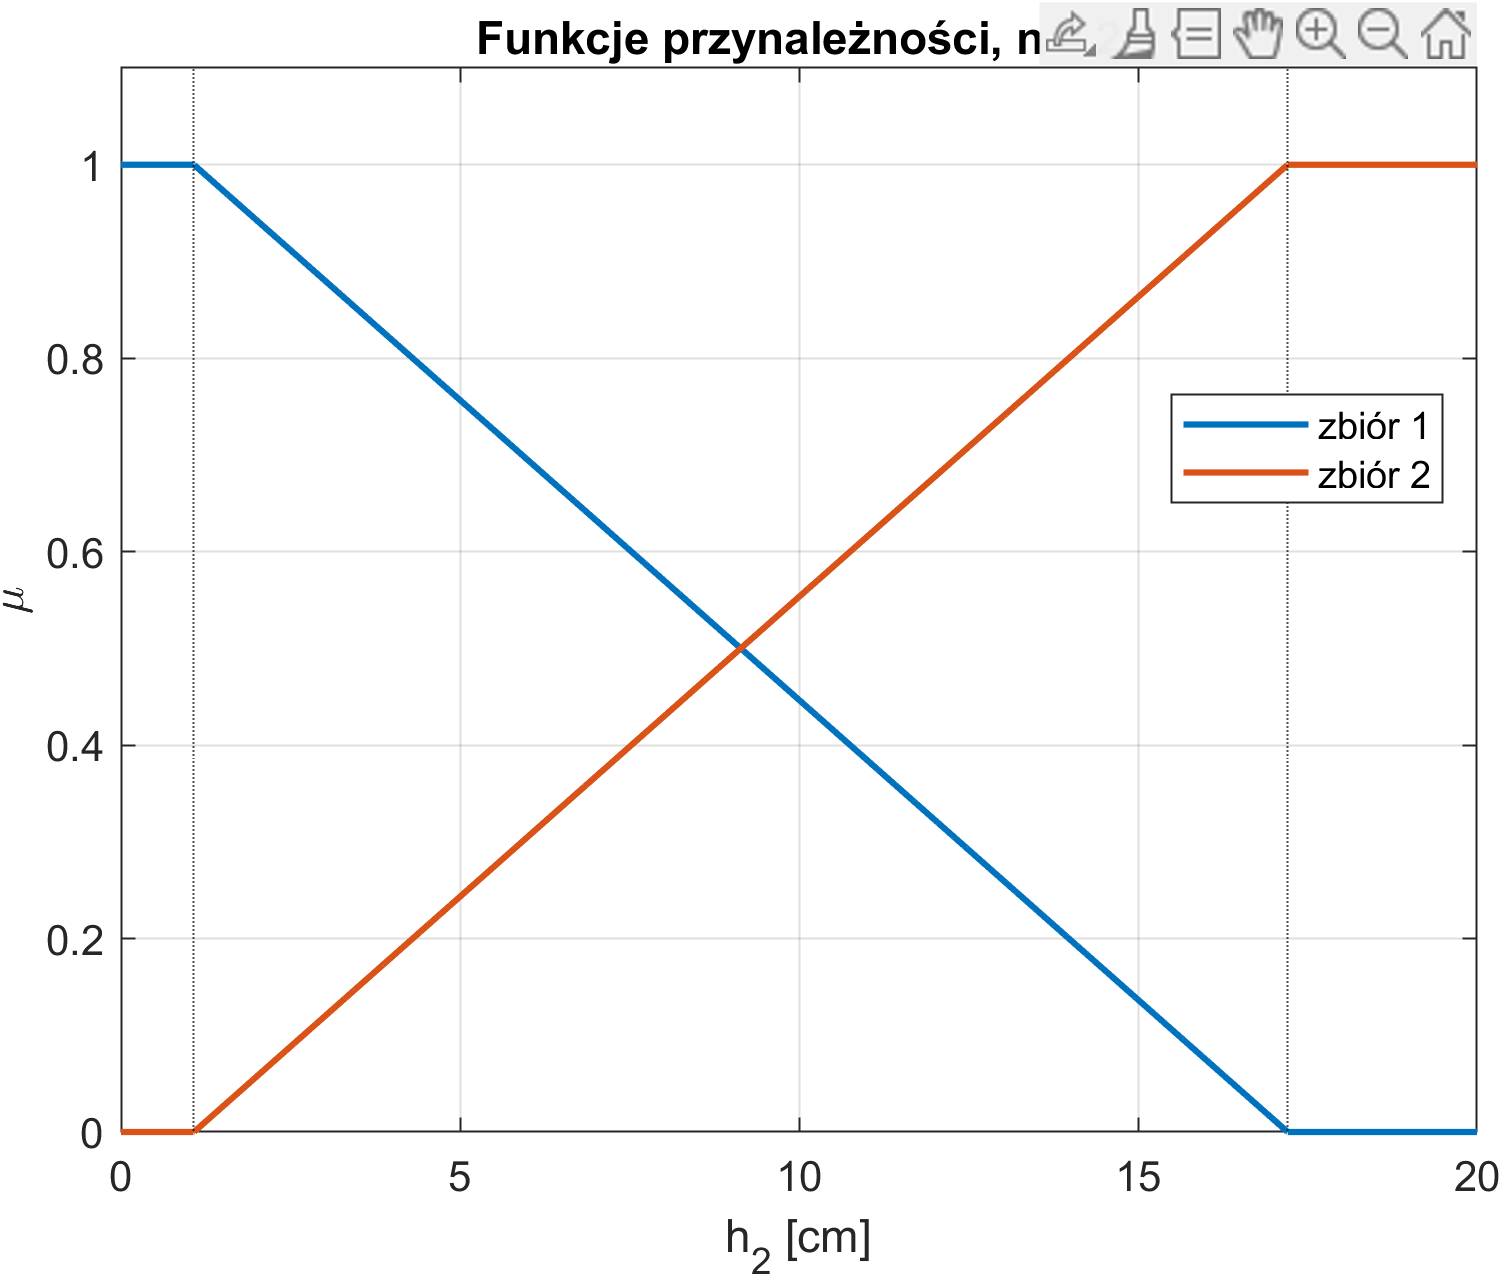
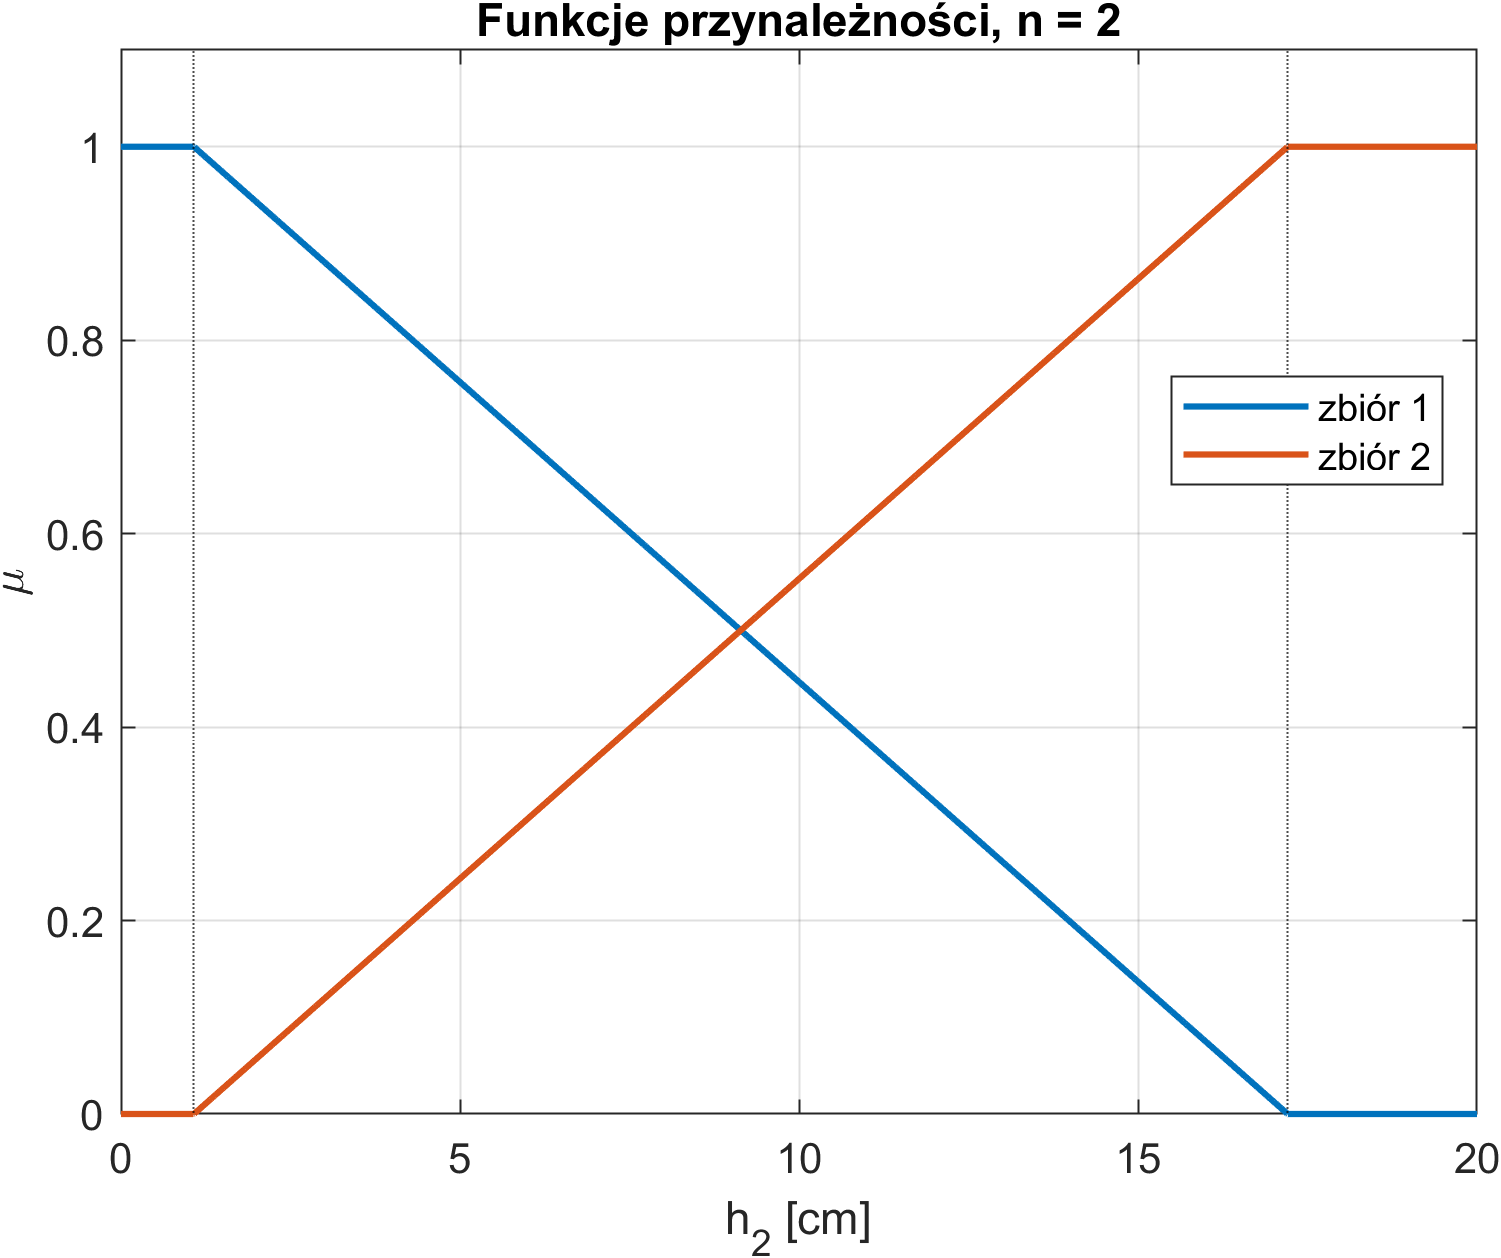
dodano porownanie modeli

diff --git a/porownanie_modeli.m b/porownanie_modeli.m
@@ -1,0 +1,133 @@
+clear; clc; close all;
+%% Stałe
+C1 = 0.6;
+C2 = 0.9;
+alpha1 = 28;
+alpha2 = 27;
+FD0 = 10;    % cm^3/s, wartość zakłócenia w punkcie pracy
+tau = 50;    % s, opóźnienie wejścia F1_in
+%% Plan skoków sterowania F1_in
+t_skok  = [0   50  150  250  350 550 700];
+F1_wart = [60  70   10   60  90   60   30];
+%% Plan skoków zakłócenia FD
+tFD_skok = [850 900 950];    % s, moment skoku zakłócenia
+FD_wart  = [20 30 5];        % cm^3/s, wartość po skoku
+%% Punkt pracy
+F1_0 = 60;
+F2_0 = F1_0 + FD0;
+h1_0 = (F2_0/alpha1)^2;
+h2_0 = (F2_0/alpha2)^2;
+V1_0 = C1*h1_0^3;
+V2_0 = C2*h2_0^2;
+x0   = [V1_0; V2_0];
+%% Model rozmyty                                                  
+n_lok = 2;                                  % liczba modeli lokalnych, od 2 do 5
+F1_fuzzy_min = F1_0 * 0.3;
+F1_fuzzy_max = F1_0 * 1.7;
+h2_fuzzy_min = ((F1_fuzzy_min + FD0)/alpha2)^2;
+h2_fuzzy_max = ((F1_fuzzy_max + FD0)/alpha2)^2;
+h2_srodki = linspace(h2_fuzzy_min, h2_fuzzy_max, n_lok);
+F_lok  = alpha2 * sqrt(h2_srodki);
+F1_lok = F_lok - FD0;
+%% Symulacja
+dt = 0.01;
+t  = 0:dt:1000;
+N  = numel(t);
+x_nl  = zeros(2,N);              % model nieliniowy, x = [V1; V2]
+x_lin = zeros(2,N);              % model liniowy
+x_roz = zeros(2,N);              % model rozmyty                  
+x_nl(:,1)  = x0;
+x_lin(:,1) = x0;
+x_roz(:,1) = x0;                                                  
+%% Sygnał sterujący F1_in i opóźnione wejście F1
+F1_in = F1_0*ones(1,N);
+for i = 1:length(t_skok)
+    F1_in(t >= t_skok(i)) = F1_wart(i);
+end
+% Opóźnienie wejścia o tau
+F1 = F1_0*ones(1,N);
+for i = 1:length(t_skok)
+    F1(t >= t_skok(i) + tau) = F1_wart(i);
+end
+%% Zakłócenie FD (bez opóźnienia)
+FD = FD0*ones(1,N);
+for i = 1:length(tFD_skok)
+    FD(t >= tFD_skok(i)) = FD_wart(i);
+end
+%% RK4
+for n = 1:N-1
+    % model nieliniowy
+    k1 = model_procesu(x_nl(:,n),          F1(n), FD(n), C1, C2, alpha1, alpha2);
+    k2 = model_procesu(x_nl(:,n)+dt*k1/2,  F1(n), FD(n), C1, C2, alpha1, alpha2);
+    k3 = model_procesu(x_nl(:,n)+dt*k2/2,  F1(n), FD(n), C1, C2, alpha1, alpha2);
+    k4 = model_procesu(x_nl(:,n)+dt*k3,    F1(n), FD(n), C1, C2, alpha1, alpha2);
+    x_nl(:,n+1) = x_nl(:,n) + dt/6*(k1 + 2*k2 + 2*k3 + k4);
+    % model liniowy
+    k1 = model_liniowy(x_lin(:,n),          F1(n), FD(n), F1_0, FD0, C1, C2, alpha1, alpha2);
+    k2 = model_liniowy(x_lin(:,n)+dt*k1/2,  F1(n), FD(n), F1_0, FD0, C1, C2, alpha1, alpha2);
+    k3 = model_liniowy(x_lin(:,n)+dt*k2/2,  F1(n), FD(n), F1_0, FD0, C1, C2, alpha1, alpha2);
+    k4 = model_liniowy(x_lin(:,n)+dt*k3,    F1(n), FD(n), F1_0, FD0, C1, C2, alpha1, alpha2);
+    x_lin(:,n+1) = x_lin(:,n) + dt/6*(k1 + 2*k2 + 2*k3 + k4);
+    % model rozmyty                                              
+    k1 = model_rozmyty(x_roz(:,n),          F1(n), FD(n), FD0, C1, C2, alpha1, alpha2, F1_lok, h2_srodki);
+    k2 = model_rozmyty(x_roz(:,n)+dt*k1/2,  F1(n), FD(n), FD0, C1, C2, alpha1, alpha2, F1_lok, h2_srodki);
+    k3 = model_rozmyty(x_roz(:,n)+dt*k2/2,  F1(n), FD(n), FD0, C1, C2, alpha1, alpha2, F1_lok, h2_srodki);
+    k4 = model_rozmyty(x_roz(:,n)+dt*k3,    F1(n), FD(n), FD0, C1, C2, alpha1, alpha2, F1_lok, h2_srodki);
+    x_roz(:,n+1) = x_roz(:,n) + dt/6*(k1 + 2*k2 + 2*k3 + k4);
+end
+%% Wyniki
+h2_nl  = (x_nl(2,:)/C2).^(1/2);                          % zmienna regulowana
+h2_lin = h2_0 + (x_lin(2,:) - V2_0)/(2*C2*h2_0);         % wzór zlinearyzowany
+h2_roz = (max(x_roz(2,:),0)/C2).^(1/2);                  % rozmyty
+
+% Wskaźnik jakości: suma kwadratów błędu względem modelu nieliniowego   
+E_lin = sum((h2_lin - h2_nl).^2) * dt;
+E_roz = sum((h2_roz - h2_nl).^2) * dt;
+fprintf('n = %d: E_lin = %.2f, E_roz = %.2f\n', n_lok, E_lin, E_roz);
+
+fig = figure;
+subplot(3,1,1);
+plot(t, F1_in, 'Color', [0 0.447 0.741], 'LineWidth', 2); hold on;
+plot(t, F1, '--', 'Color', [0.85 0.325 0.098], 'LineWidth', 0.8);
+grid on;
+ylabel('F [cm^3/s]');
+title('Sterowanie F_{1,in} i przepływ F_1 (z opóźnieniem)');
+legend('F_{1,in}', 'F_1', 'Location', 'best');
+subplot(3,1,2);
+plot(t, FD, 'Color', [0.929 0.694 0.125], 'LineWidth', 2); grid on;
+ylabel('F_D [cm^3/s]'); title('Zakłócenie F_D');
+subplot(3,1,3);
+plot(t, h2_nl, 'Color', [0.466 0.674 0.188], 'LineWidth', 2); hold on;
+plot(t, h2_lin, '--', 'Color', [0.494 0.184 0.556], 'LineWidth', 1.5);
+plot(t, h2_roz, '-.', 'Color', [0.85 0.325 0.098], 'LineWidth', 1.5);   % <-- NOWE
+grid on;
+xlabel('Czas [s]'); ylabel('h_2 [cm]');
+title(sprintf('Zmienna regulowana h_2 (model rozmyty: n = %d)', n_lok));
+legend('nieliniowy', 'liniowy', 'rozmyty', 'Location', 'best');
+
+exportgraphics(fig, fullfile('wykresy_png', ...                          % <-- NOWE
+               sprintf('porownanie_modeli_n%d.png', n_lok)), 'Resolution', 300);
+%% Modele
+function dx = model_liniowy(x, F1, FD, F1_0, FD0, C1, C2, a1, a2)
+% Model zlinearyzowany w punkcie pracy F1_0 i FD0, x = [V1; V2]
+    F2_0 = F1_0 + FD0;
+    h1_0 = (F2_0/a1)^2;
+    h2_0 = (F2_0/a2)^2;
+    V1_0 = C1*h1_0^3;
+    V2_0 = C2*h2_0^2;
+    k2 = a1/6 * C1^(-1/6) * V1_0^(-5/6);
+    k3 = a2/4 * C2^(-1/4) * V2_0^(-3/4);
+    dV1 = x(1) - V1_0;
+    dV2 = x(2) - V2_0;
+    dx = [(F1 - F1_0) + (FD - FD0) - k2*dV1;
+          k2*dV1 - k3*dV2];
+end
+function dx = model_procesu(x, F1, FD, C1, C2, a1, a2)
+% Model nieliniowy, x = [V1; V2]
+    h1 = (x(1)/C1)^(1/3);
+    h2 = (x(2)/C2)^(1/2);
+    F2 = a1*sqrt(h1);
+    F3 = a2*sqrt(h2);
+    dx = [F1 + FD - F2;
+          F2 - F3];
+end

diff --git a/modele_rozmyte.m b/modele_rozmyte.m
@@ -28,12 +28,27 @@ h2_fuzzy_max = (F2_fuzzy_max/alpha2)^2;
 
 
 %% Podział na modele lokalne
-n_lok = 5; % ilość modeli lokalnych, od 2 do 5
+n_lok = 2; % ilość modeli lokalnych, od 2 do 5
 h2_srodki = linspace(h2_fuzzy_min, h2_fuzzy_max, n_lok);
 
 F_lok  = alpha2 * sqrt(h2_srodki);  
 F1_lok = F_lok - FD0;
-h1_lok = (F_lok / alpha1).^2;   
+h1_lok = (F_lok / alpha1).^2;
+
+%% Test modelu rozmytego
+% 1. W rownowadze kazdego modelu lokalnego pochodne powinny byc ~0
+fprintf('\nTest 1: rownowagi modeli lokalnych (n = %d)\n', n_lok);
+for i = 1:n_lok
+    x_rown = [C1*h1_lok(i)^3; C2*h2_srodki(i)^2];   % stan rownowagi modelu i
+    dx_test = model_rozmyty(x_rown, F1_lok(i), FD0, FD0, ...
+                            C1, C2, alpha1, alpha2, F1_lok, h2_srodki);
+    fprintf('  model %d: h2 = %6.2f cm, F1 = %6.2f -> dx = [%9.2e; %9.2e]\n', ...
+            i, h2_srodki(i), F1_lok(i), dx_test(1), dx_test(2));
+end
+
+
+
+
 
 % %% Rysowanie funkcji przynaleznosci
 % h2_siatka = 0:0.01:20;     % [cm] punkty do wykresu

diff --git a/model_liniowy.m b/model_liniowy.m
@@ -1,18 +1,14 @@
-function dx = model_liniowy(x, F1, F1_0, FD, C1, C2, a1, a2)
-% Model dwoch zbiornikow zlinearyzowany w punkcie pracy F1_0 i FD, x = [V1; V2]
-% Zwraca pochodne dx = [dV1/dt; dV2/dt]
-    % punkt pracy (stan ustalony)
-    F2_0 = F1_0 + FD;
+function dx = model_liniowy(x, F1, FD, F1_0, FD0, C1, C2, a1, a2)
+% Model zlinearyzowany w punkcie pracy F1_0 i FD0, x = [V1; V2]
+    F2_0 = F1_0 + FD0;
     h1_0 = (F2_0/a1)^2;
     h2_0 = (F2_0/a2)^2;
     V1_0 = C1*h1_0^3;
     V2_0 = C2*h2_0^2;
-    % wspolczynniki Taylora: k2 = dF2/dV1, k3 = dF3/dV2
     k2 = a1/6 * C1^(-1/6) * V1_0^(-5/6);
     k3 = a2/4 * C2^(-1/4) * V2_0^(-3/4);
-    % pochodne w zmiennych odchylkowych
     dV1 = x(1) - V1_0;
     dV2 = x(2) - V2_0;
-    dx = [(F1 - F1_0) - k2*dV1;
+    dx = [(F1 - F1_0) + (FD - FD0) - k2*dV1;
           k2*dV1 - k3*dV2];
 end

diff --git a/model_rozmyty.m b/model_rozmyty.m
@@ -1,0 +1,11 @@
+function dx = model_rozmyty(x, F1, FD, FD0, C1, C2, a1, a2, F1_lok, h2_srodki)
+    h2 = (max(x(2),0)/C2)^(1/2);
+    mu = przynaleznosc(h2, h2_srodki, 'trojkat');
+    n = length(h2_srodki);
+    dx = zeros(2,1);
+    for i = 1:n
+        dx_lok = model_liniowy(x,F1,FD,F1_lok(i),FD0,C1,C2,a1,a2);
+        dx = dx_lok * mu(i) + dx;
+    end
+
+end
